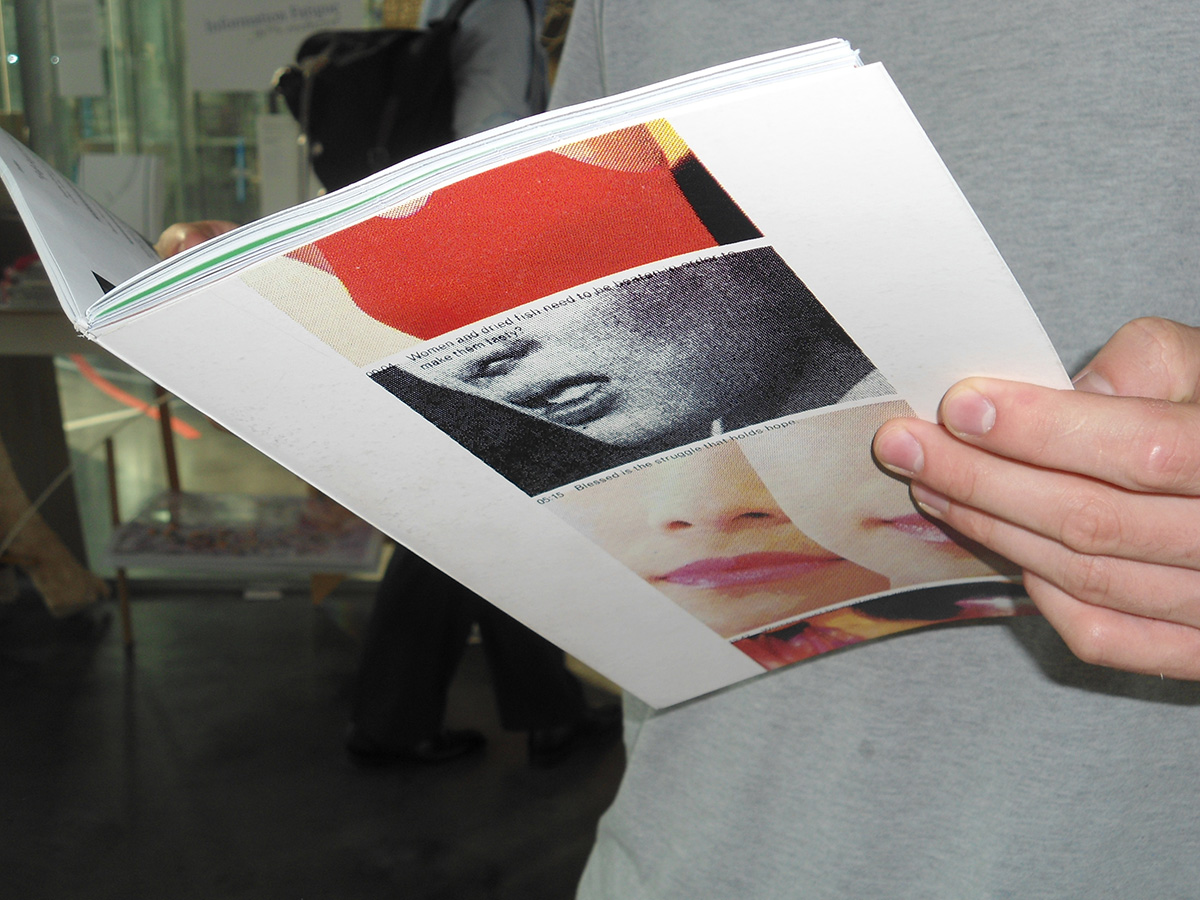
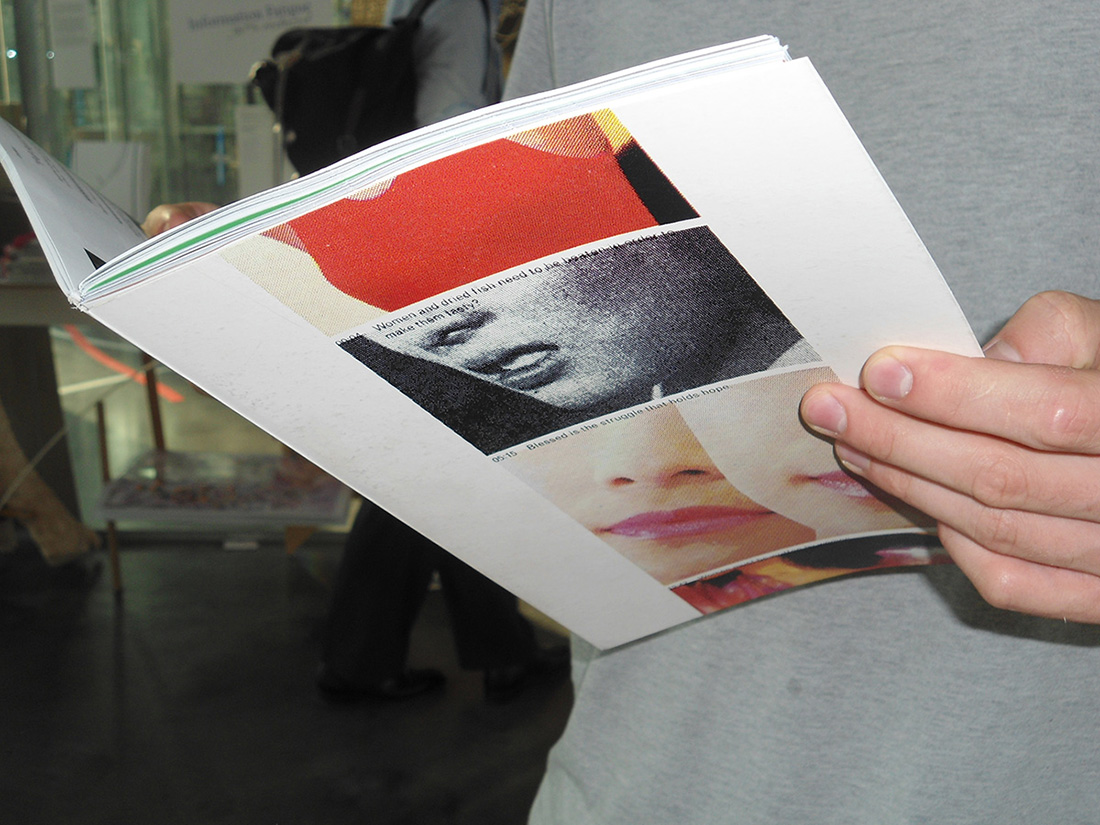
yu
y

Changed region(s): [[0.4945, 0.2727, 0.6182, 0.3939], [0.4636, 0.1515, 0.5564, 0.1818], [0.3709, 0.3636, 0.4327, 0.3939]]

diff --git a/script.js b/script.js
@@ -1,5 +1,5 @@
 const projects = [
-    { image: "images/project5.jpg", caption: "<em>Reframing Women</em>, 192 papes, 200 × 280 mm" },
+    { image: "images/project5.JPG", caption: "<em>Reframing Women</em>, 192 papes, 200 × 280 mm" },
     { image: "images/project6.jpg", caption: "<em>Reframing Women</em>, 192 papes, 200 × 280 mm" },
     { image: "images/dsc04277.jpg", caption: "<em>Reframing Women</em>, 192 papes, 200 × 280 mm" },
     { image: "images/project1.jpg", caption: "<em>Women–Poetry–Translation: Rewriting Feminist Voices across Text and Archive</em>, 35 pages, 120 × 190 mm" },